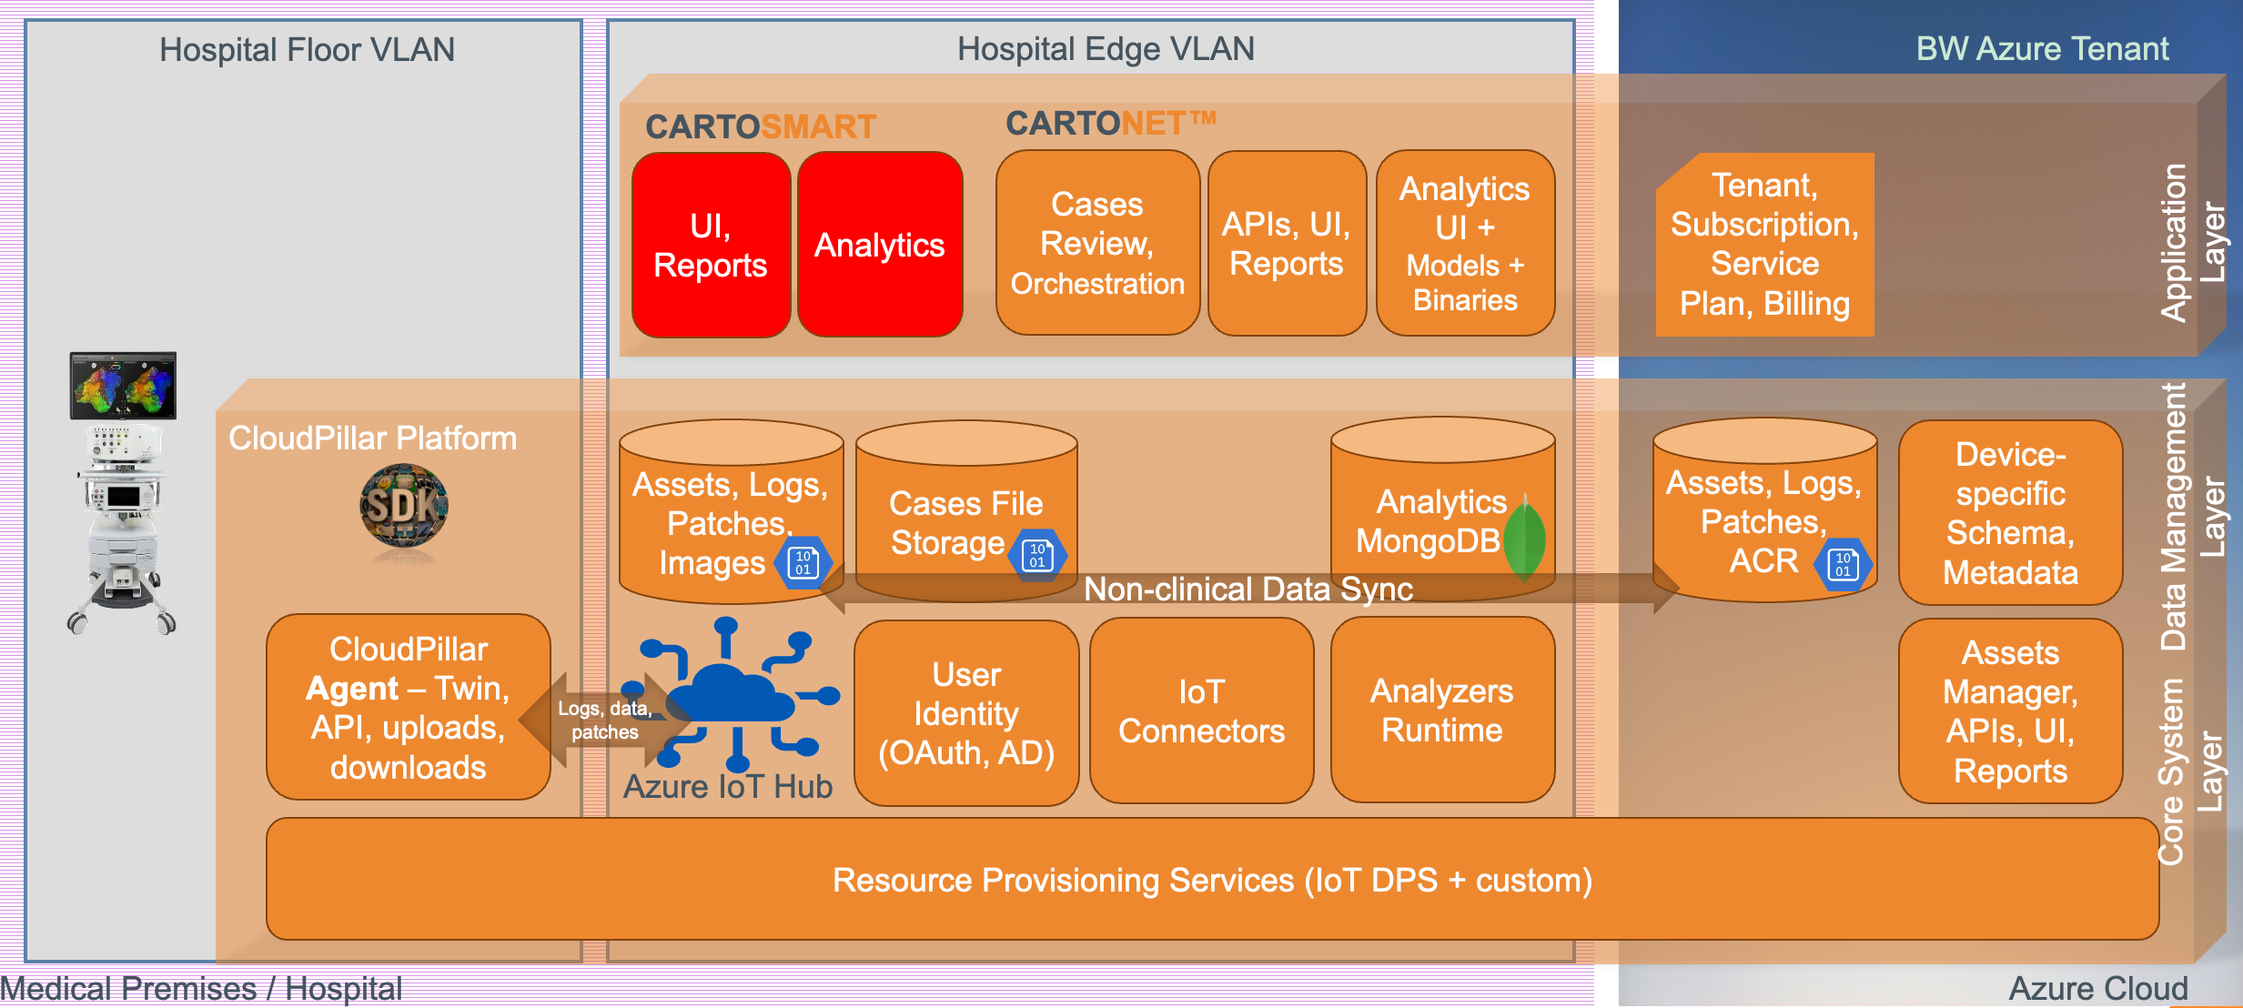
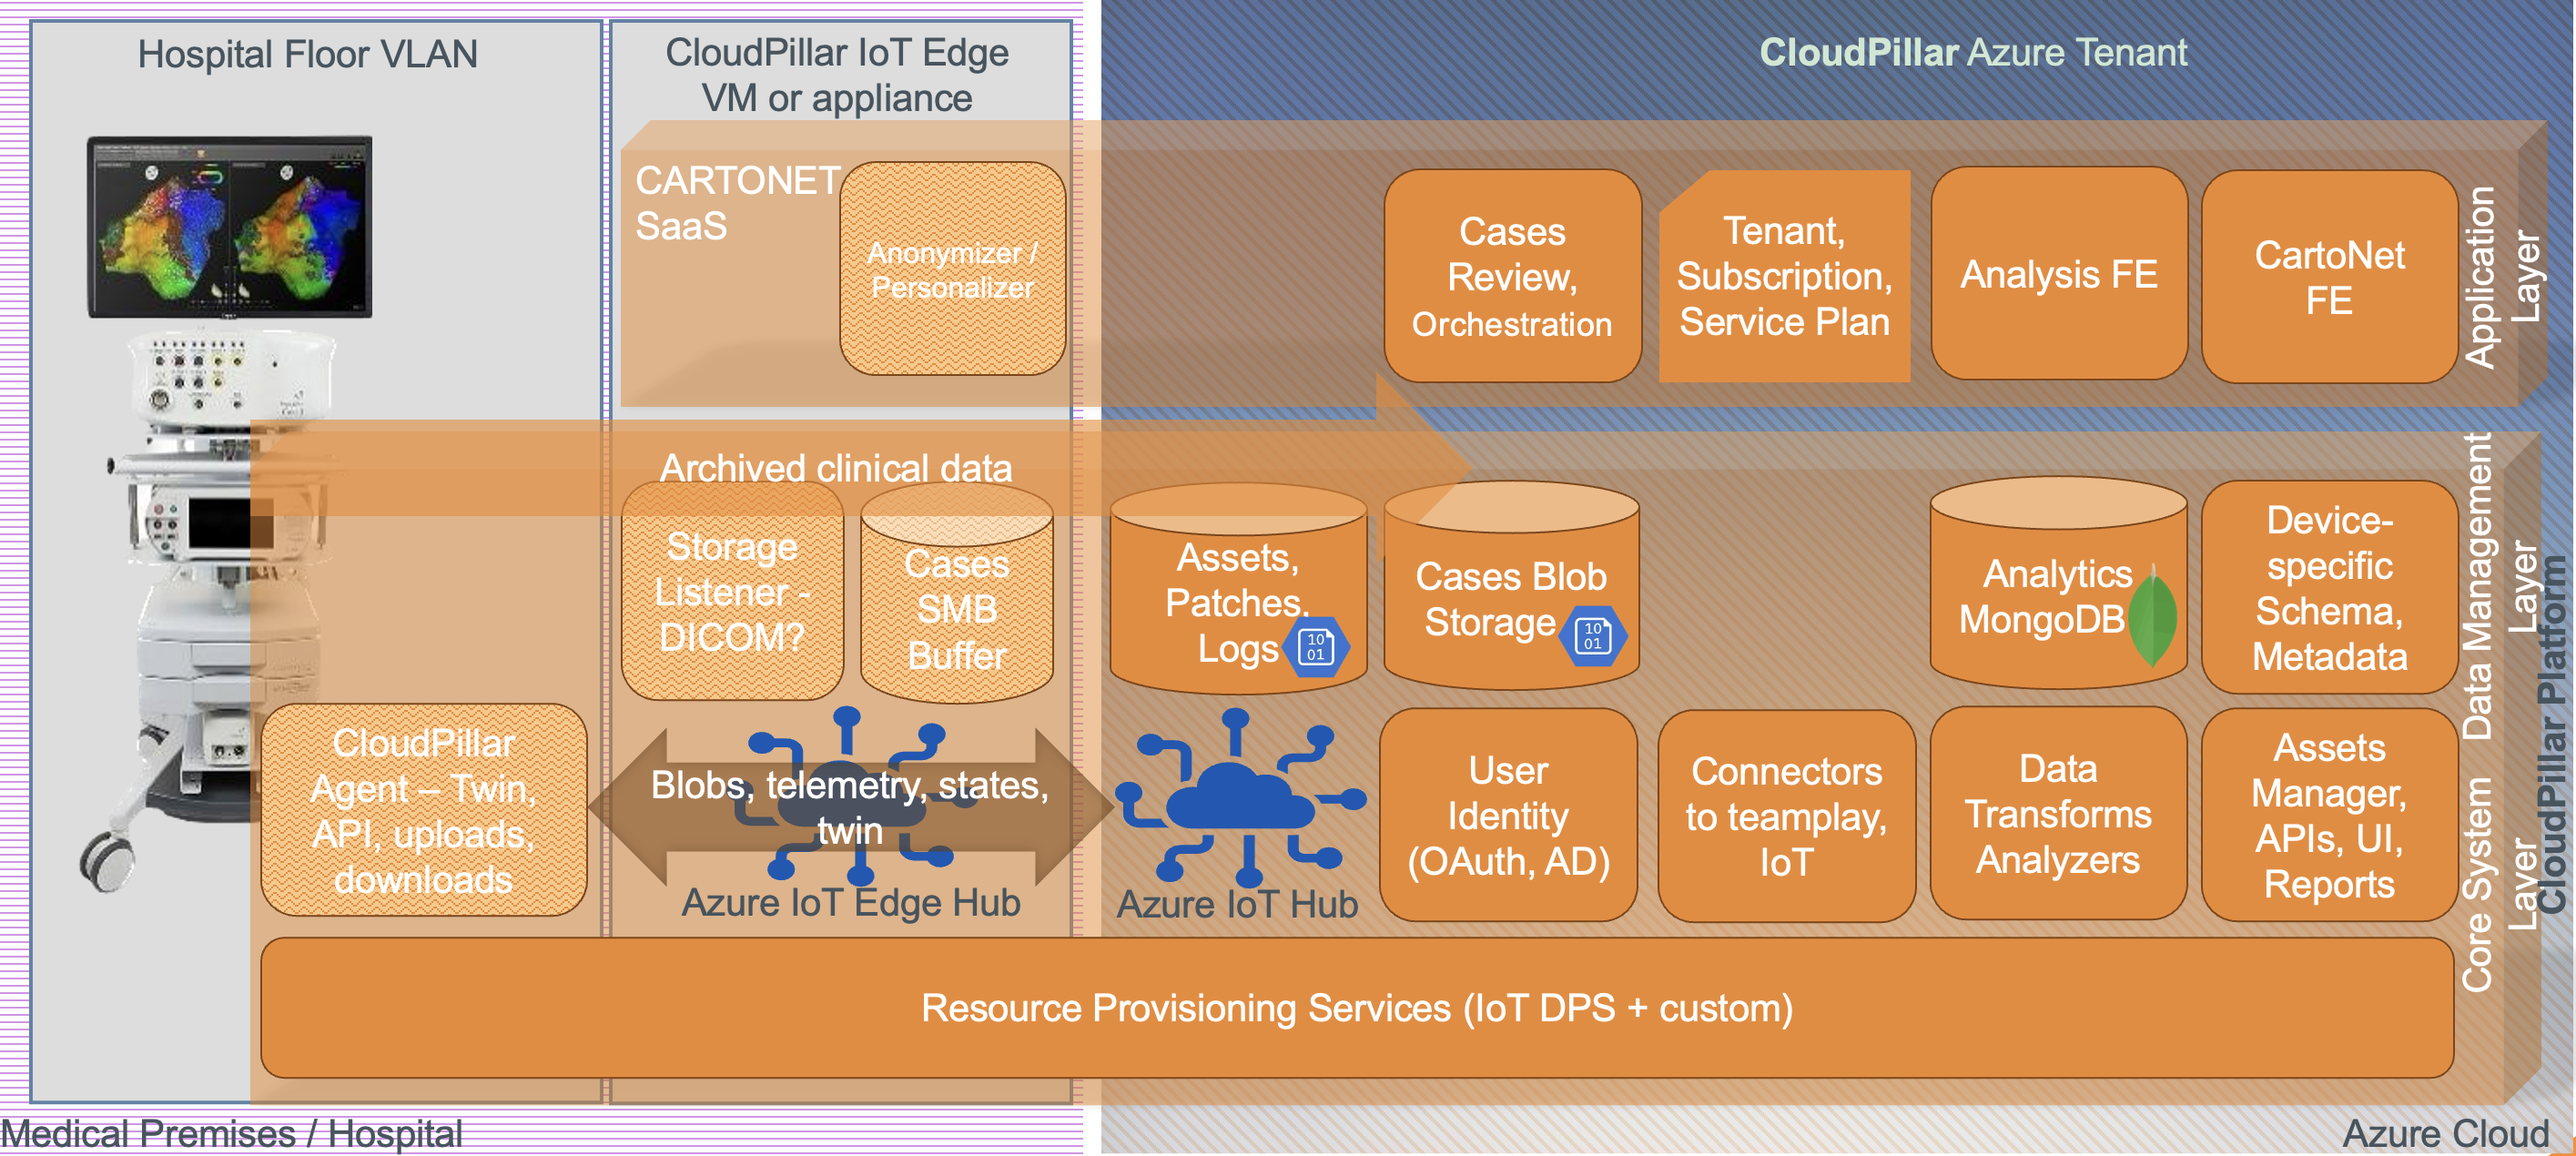
Refresh graphics

diff --git a/wiki/Medical-Device-Exposure-to-the-Cloud-%2D-CloudPillar.md b/wiki/Medical-Device-Exposure-to-the-Cloud-%2D-CloudPillar.md
@@ -27,5 +27,5 @@ The Cloud Pillar for Cybersecurity is anchored in the robust IoT technologies of
 2. **Operational Efficiency**: Intelligent operations and state maintenance lead to smoother device operations.
 3. **Data-Driven Insights**: Backend analysis of logs and telemetry data can lead to actionable insights for better device management.
 4. **Future Compatibility**: As the digital transformation of healthcare continues, Cloud Pillar ensures that medical devices are adaptable, secure, and ready to integrate with future systems.
-![image.png](.images/cpcconnected.png)
+
 ![image.png](.images/cpeconnected.png)
